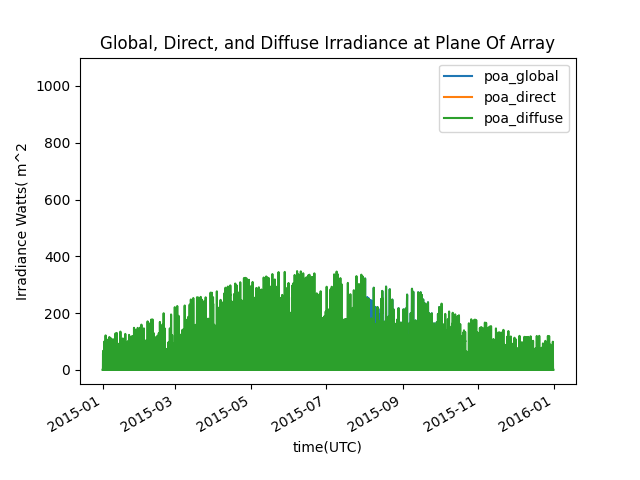
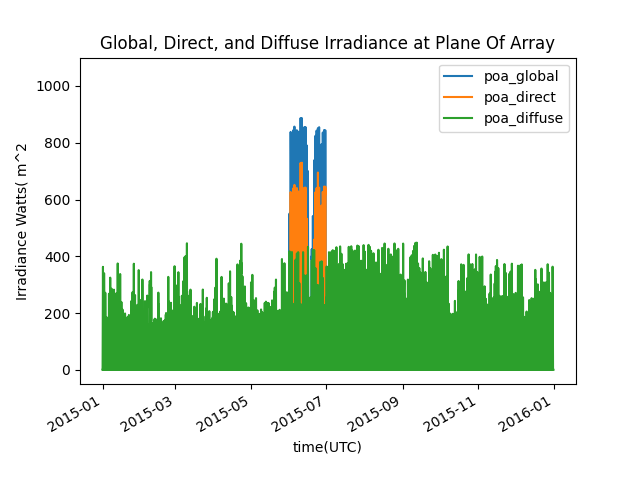
updated times for hourly solar data based on longitude

Changed region(s): [[0.1562, 0.25, 0.875, 0.7188]]

diff --git a/app_functions.py b/app_functions.py
@@ -206,34 +206,72 @@ def tmy(lat, long, loc, rotation, tilts):
     # Filter TMY db for only GHI DNI and DHI
     df_tmy_filtered = df_tmy[['ghi', 'dni', 'dhi']]
 
+    t_start_summer = -4656
+    t_end_summer = -4632
+
+    t_start_winter = -264
+    t_end_winter = -240
+
+    t_start_spring = -6864
+    t_end_spring = -6840
+
+    t_start_fall = -2448
+    t_end_fall = -2424
+
+    if long < -70:
+        t_start_summer = t_start_summer + 6
+        t_end_summer = t_end_summer + 6
+
+        t_start_winter = t_start_winter + 6
+        t_end_winter = t_end_winter + 6
+
+        t_start_spring = t_start_spring + 6
+        t_end_spring = t_end_spring + 6
+
+        t_start_fall = t_start_fall + 6
+        t_end_fall = t_end_fall + 6
+
+    if long > 70:
+        t_start_summer = t_start_summer - 6
+        t_end_summer = t_end_summer - 6
+
+        t_start_winter = t_start_winter - 6
+        t_end_winter = t_end_winter - 6
+
+        t_start_spring = t_start_spring - 6
+        t_end_spring = t_end_spring - 6
+
+        t_start_fall = t_start_fall - 6
+        t_end_fall = t_end_fall - 6
+
     # Plot irradiance db at location (not yet considering panel tilt etc.)
-    df_tmy_filtered.iloc[-4656:-4632].plot()
+    df_tmy_filtered.iloc[t_start_summer:t_end_summer].plot()
     plt.title("Summer Solstice: DNI, DHI, and GHI in a Typical Meteorological Year")
     plt.ylim(-50, 1100)
     plt.ylabel('Irradiance Watt/m^2')
     plt.savefig(f"static/figures/tmy_summer.png")
 
-    # Plot irraidiance db at location (not yet considering panel tilt etc.)
-    df_tmy_filtered.iloc[-4656:-4632].plot()
-    # plt.rcParams["figure.figsize"] = (20, 10)
-    plt.title("Summer Solstice: DNI, DHI, and GHI in a Typical Meteorological Year")
-    plt.ylim(-50, 1100)
-    plt.ylabel('Irradiance Watt/m^2')
-    plt.savefig(f"static/figures/tmy_summer.png")
+    # # Plot irraidiance db at location (not yet considering panel tilt etc.)
+    # df_tmy_filtered.iloc[-4656:-4632].plot()
+    # # plt.rcParams["figure.figsize"] = (20, 10)
+    # plt.title("Summer Solstice: DNI, DHI, and GHI in a Typical Meteorological Year")
+    # plt.ylim(-50, 1100)
+    # plt.ylabel('Irradiance Watt/m^2')
+    # plt.savefig(f"static/figures/tmy_summer.png")
 
-    df_tmy_filtered.iloc[-264:-240].plot()
+    df_tmy_filtered.iloc[t_start_winter:t_end_winter].plot()
     plt.title("Winter Solstice: DNI, DHI, and GHI in a Typical Meteorological Year")
     plt.ylim(-50, 1100)
     plt.ylabel('Irradiance Watt/m^2')
     plt.savefig(f"static/figures/tmy_winter.png")
 
-    df_tmy_filtered.iloc[-6864:-6840].plot()
+    df_tmy_filtered.iloc[t_start_spring:t_end_spring].plot()
     plt.title("Spring Equinox: DNI, DHI, and GHI in a Typical Meteorological Year")
     plt.ylim(-50, 1100)
     plt.ylabel('Irradiance Watt/m^2')
     plt.savefig(f"static/figures/tmy_spring.png")
 
-    df_tmy_filtered.iloc[-2448:-2424].plot()
+    df_tmy_filtered.iloc[t_start_fall:t_end_fall].plot()
     plt.title("Fall Equinox: DNI, DHI, and GHI in a Typical Meteorological Year")
     plt.ylim(-50, 1100)
     plt.ylabel('Irradiance Watt/m^2')
